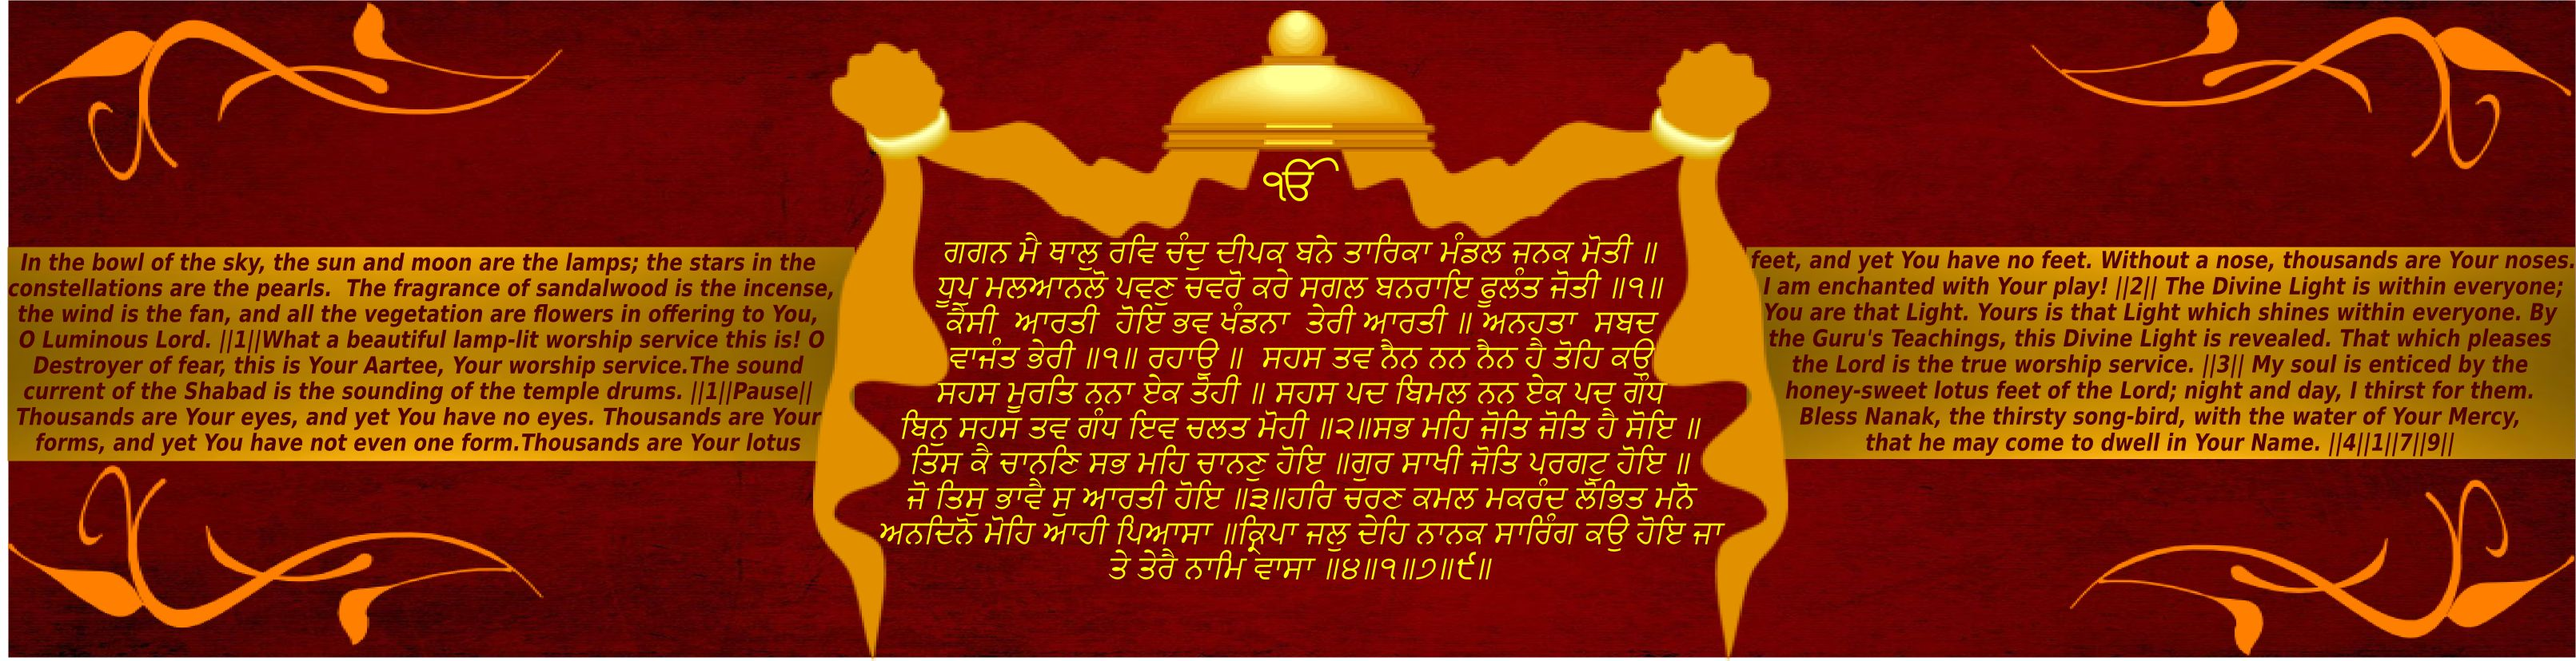
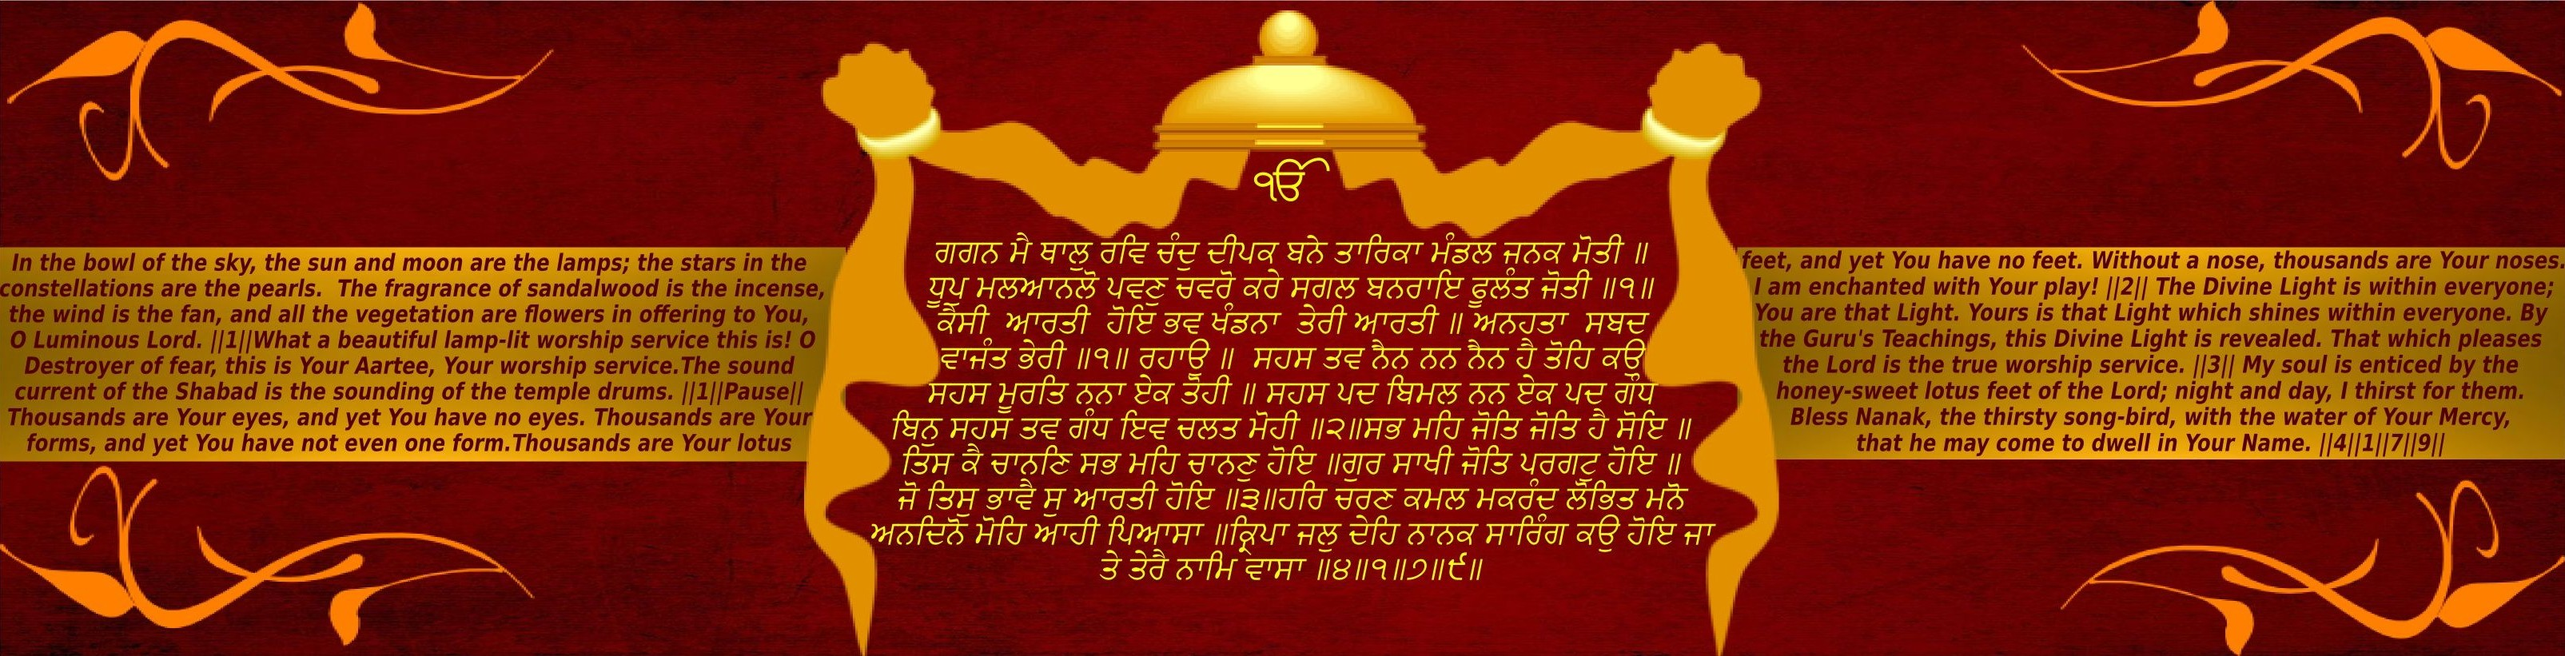
v1.6

diff --git a/wp-content/themes/hueman/header.php b/wp-content/themes/hueman/header.php
@@ -52,7 +52,7 @@
 					<?php if ( ot_get_option('site-description') != 'off' ): ?><p class="site-description"><?php bloginfo( 'description' ); ?></p><?php endif; ?>
 
 
-                                <img src="http://serv.devplace.in/~satinder/cosmic/wp-content/uploads/2015/01/drawing-banner222.png" alt="some_text">		       
+                                <img src="http://serv.devplace.in/~satinder/cosmic/wp-content/uploads/2015/01/drawing-banner222-compressed.jpg" alt="some_text">		       
 
 	
 				<!--	 <div id="aasp-anthem" class="aasp-right" style=" float:right; " >
